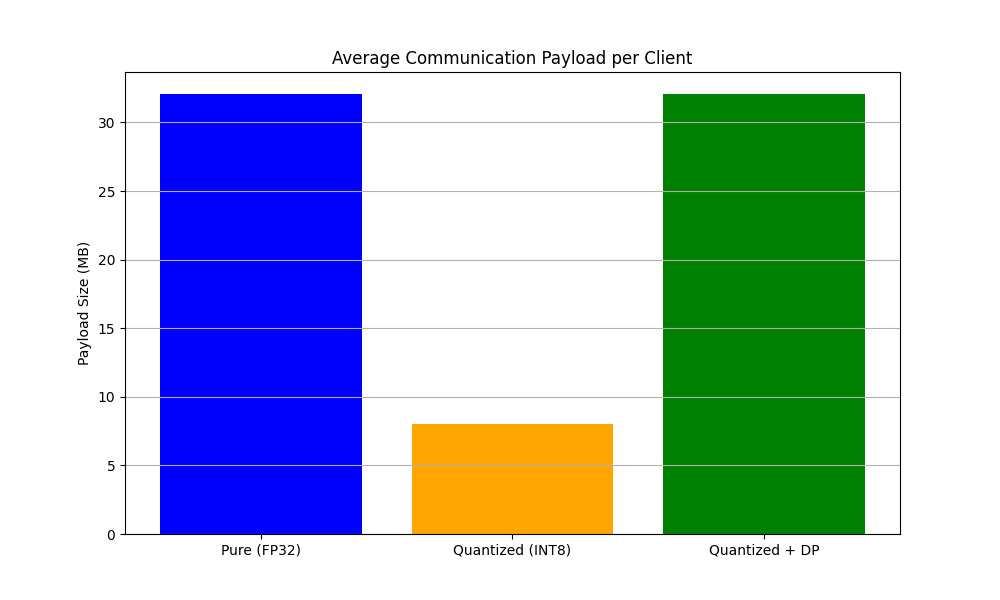
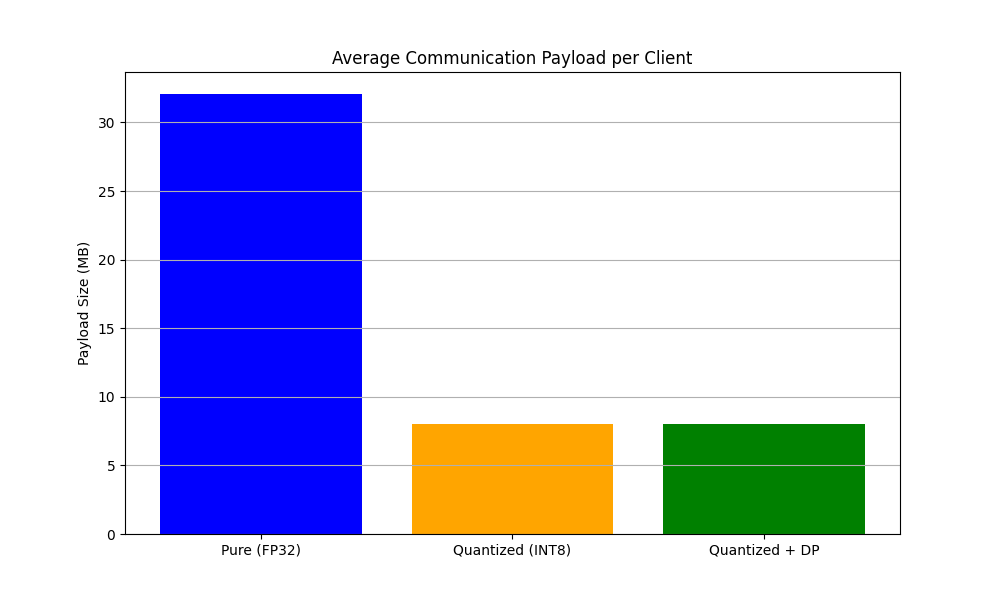
Fix payload comparison for quantized DP model

Changed region(s): [[0.651, 0.15, 0.868, 0.72]]

diff --git a/federated_healthcare/src/comparison_graph.py b/federated_healthcare/src/comparison_graph.py
@@ -52,45 +52,114 @@ if has_data:
     plt.savefig(os.path.join(COMPARISONS_DIR, "loss_comparison.png"))
 plt.close()
 
+# # 3. Payload Size Bar Chart
+# plt.figure(figsize=(10, 6))
+# labels = []
+# payloads = []
+# for label, suffix in configs.items():
+#     # Load hospital CSVs
+#     results_dir = os.path.join(DASHBOARD_DIR, "results", suffix)
+#     total_payload = 0
+#     count = 0
+#     if os.path.exists(results_dir):
+#         for f in os.listdir(results_dir):
+#             if f.startswith("Hospital_") and f.endswith(".csv"):
+#                 # Read without header to avoid multi-index issues with jagged rows (15 cols vs 9 cols)
+#                 df = pd.read_csv(os.path.join(results_dir, f), header=None, skiprows=1)
+                
+#                 # Filter for training rows only (which have >9 columns)
+#                 if 10 in df.columns:
+#                     df_train = df[df[10].notna()]
+                    
+#                     # Col 5 = FP32 payload MB, Col 7 = INT8 payload MB
+#                     if "quantized" in suffix:
+#                         s = pd.to_numeric(df_train[7], errors='coerce')
+#                     else:
+#                         s = pd.to_numeric(df_train[5], errors='coerce')
+                        
+#                     mean_val = s.mean()
+#                     if pd.notna(mean_val):
+#                         total_payload += mean_val
+#                     count += 1
+#     if count > 0:
+#         labels.append(label)
+#         payloads.append(total_payload / count)
+
+# if labels:
+#     plt.bar(labels, payloads, color=['blue', 'orange', 'green'][:len(labels)])
+#     plt.title("Average Communication Payload per Client")
+#     plt.ylabel("Payload Size (MB)")
+#     plt.grid(axis='y')
+#     plt.savefig(os.path.join(COMPARISONS_DIR, "payload_comparison.png"))
+# plt.close()
 # 3. Payload Size Bar Chart
 plt.figure(figsize=(10, 6))
 labels = []
 payloads = []
+
 for label, suffix in configs.items():
-    # Load hospital CSVs
+    
     results_dir = os.path.join(DASHBOARD_DIR, "results", suffix)
     total_payload = 0
     count = 0
+
     if os.path.exists(results_dir):
         for f in os.listdir(results_dir):
+            
             if f.startswith("Hospital_") and f.endswith(".csv"):
-                # Read without header to avoid multi-index issues with jagged rows (15 cols vs 9 cols)
-                df = pd.read_csv(os.path.join(results_dir, f), header=None, skiprows=1)
-                
-                # Filter for training rows only (which have >9 columns)
+
+                df = pd.read_csv(
+                    os.path.join(results_dir, f),
+                    header=None,
+                    skiprows=1
+                )
+
+                # Filter training rows
                 if 10 in df.columns:
                     df_train = df[df[10].notna()]
-                    
-                    # Col 5 = FP32 payload MB, Col 7 = INT8 payload MB
-                    if "quantized" in suffix:
-                        s = pd.to_numeric(df_train[7], errors='coerce')
+
+                    # Col 5 = FP32 payload MB
+                    # Col 7 = INT8 payload MB
+                    if suffix in ["b_quantized", "c_dp"]:
+                        s = pd.to_numeric(
+                            df_train[7],
+                            errors='coerce'
+                        )
                     else:
-                        s = pd.to_numeric(df_train[5], errors='coerce')
-                        
+                        s = pd.to_numeric(
+                            df_train[5],
+                            errors='coerce'
+                        )
+
                     mean_val = s.mean()
+
                     if pd.notna(mean_val):
                         total_payload += mean_val
+
                     count += 1
+
     if count > 0:
         labels.append(label)
         payloads.append(total_payload / count)
 
+
 if labels:
-    plt.bar(labels, payloads, color=['blue', 'orange', 'green'][:len(labels)])
+    plt.bar(
+        labels,
+        payloads,
+        color=['blue', 'orange', 'green'][:len(labels)]
+    )
+
     plt.title("Average Communication Payload per Client")
     plt.ylabel("Payload Size (MB)")
     plt.grid(axis='y')
-    plt.savefig(os.path.join(COMPARISONS_DIR, "payload_comparison.png"))
-plt.close()
 
+    plt.savefig(
+        os.path.join(
+            COMPARISONS_DIR,
+            "payload_comparison.png"
+        )
+    )
+
+plt.close()
 print(f"Comparison graphs generated in {COMPARISONS_DIR}")
